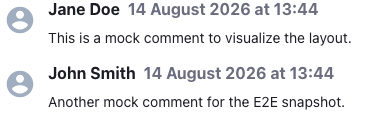
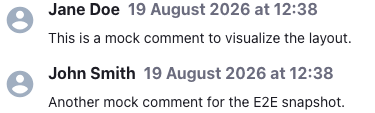
docs: update visual gallery from successful remote E2E pass on aws-1 (#260)
* docs: promote live snapshots and update gallery from successful remote E2E pass on aws-1

* fix(gallery): format diff percentage without broken gitignored image links

diff --git a/scripts/generate-gallery.js b/scripts/generate-gallery.js
@@ -440,7 +440,7 @@ function generateGallery() {
             } else if (analysisResult.status === 'regression') {
               const diffFileName = `${safeCollectionName}-${safeFragmentName}-${vp}-diff.png`;
               liveImages[vp + '_status'] =
-                `<br>❌ **Diff: ${analysisResult.diffPercentage.toFixed(1)}%**<br>[View Diff](./images/diffs/${diffFileName})`;
+                `<br>❌ **Diff: ${analysisResult.diffPercentage.toFixed(1)}%**`;
             } else if (pwResult && pwResult.status === 'passed') {
               liveImages[vp + '_status'] = '<br>🟢 **Passed**';
             } else if (pwResult && pwResult.status === 'skipped') {

diff --git a/docs/gallery.md b/docs/gallery.md
@@ -2,8 +2,7 @@
 
 A visual reference for the high-fidelity fragments available in this Liferay DXP repository. Generated automatically.
 
-**Last Tested Against Liferay Version:** `Unknown`
-*(Note: Live snapshots disabled due to pending or failed test suite)*
+**Last Tested Against Liferay Version:** `2026.q1.11-lts`
 
 ## Advanced Object Data
 
@@ -1200,7 +1199,7 @@ A collection of high-fidelity fragments for constructing modern corporate intran
 
 | Tablet (768px) | Mobile (375px) |
 | :---: | :---: |
-| <img src="./images/live/objects-view-comments-tablet.png" width="350" alt="Tablet"><br>🟢 **Passed** | <img src="./images/live/objects-view-comments-mobile.png" width="175" alt="Mobile"><br>🟢 **Passed** |
+| <img src="./images/live/objects-view-comments-tablet.png" width="350" alt="Tablet"><br>🟢 **Passed** | <img src="./images/live/objects-view-comments-mobile.png" width="175" alt="Mobile"><br>❌ **Diff: 1.8%** |
 
 [Detailed Documentation](./fragments/objects/public-comments.md)
 
